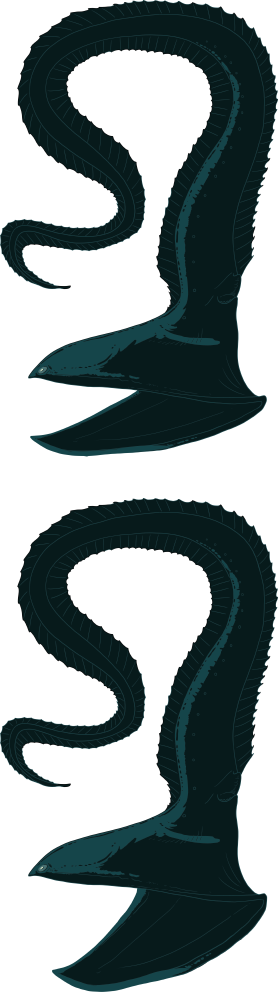
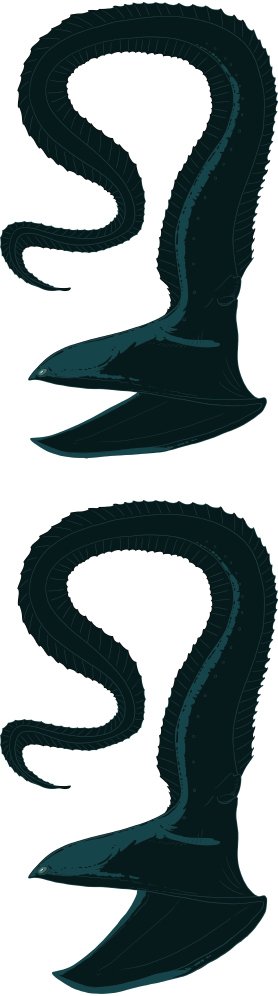
Fixing quirk of animation.

diff --git a/css/main.css b/css/main.css
@@ -300,12 +300,12 @@ cite:before {
 /* Challenges */
 /* Props */
 .creatures2x-sprite {
-  background-image: url('../img/creatures2x-s2908492c48.png');
+  background-image: url('../img/creatures2x-s9c2e841a7d.png');
   background-repeat: no-repeat;
 }
 
 .creatures-sprite, .creature_flashlight-fish:before, .creature_nautilus:before, .creature_orange-roughy:before, .creature_vomiting-shrimp:before, .creature_hagfish:before, #creature_viperfish1:before, #creature_gulper-eel1:before, #creature_dragonfish1:before, #creature_anglerfish1:before, #creature_bristlemouth1:before {
-  background-image: url('../img/creatures-sba66b1e045.png');
+  background-image: url('../img/creatures-s77c1a18647.png');
   background-repeat: no-repeat;
 }
 
@@ -318,7 +318,7 @@ cite:before {
 
 @media only screen and (-webkit-min-device-pixel-ratio: 1.3), only screen and (min--moz-device-pixel-ratio: 1.3), only screen and (-o-min-device-pixel-ratio: 2.6 / 2), only screen and (min-device-pixel-ratio: 1.3), only screen and (min-resolution: 124.8dpi), only screen and (min-resolution: 1.3dppx) {
   .creature:before {
-    background-image: url('../img/creatures2x-s2908492c48.png');
+    background-image: url('../img/creatures2x-s9c2e841a7d.png');
   }
 }
 /* Props */
@@ -344,16 +344,15 @@ cite:before {
 
 .creature_flashlight-fish {
   width: 181.5px;
-  height: 90.5px;
+  height: 94.5px;
 }
 .creature_flashlight-fish:before {
-  background-position: 0 24.72238%;
+  background-position: 0 24.81203%;
   background-size: 272.52747% auto;
-  height: 100%;
 }
 .creature_flashlight-fish .lumi {
   left: 83.19559%;
-  top: 64.0884%;
+  top: 61.37566%;
   width: 12.94766%;
 }
 
@@ -551,10 +550,10 @@ cite:before {
 
 .creature_nautilus {
   width: 219.5px;
-  height: 205px;
+  height: 209px;
 }
 .creature_nautilus:before {
-  background-position: 0 68.05421%;
+  background-position: 0 68.03828%;
   background-size: 225.45455% auto;
   height: 200%;
 }
@@ -589,10 +588,10 @@ cite:before {
 
 .creature_orange-roughy {
   width: 496px;
-  height: 271px;
+  height: 275px;
 }
 .creature_orange-roughy:before {
-  background-position: 0 85.1028%;
+  background-position: 0 85.01499%;
   background-size: 100% auto;
   height: 200%;
 }
@@ -622,7 +621,7 @@ cite:before {
 
 .creature_vomiting-shrimp {
   width: 166px;
-  height: 110px;
+  height: 114px;
 }
 .creature_vomiting-shrimp:before {
   background-position: 0 100%;
@@ -696,14 +695,14 @@ cite:before {
 
 .creature_hagfish {
   width: 200px;
-  height: 85px;
+  height: 89px;
   position: absolute;
   bottom: -20px;
   right: 2em;
   z-index: 1;
 }
 .creature_hagfish:before {
-  background-position: 0 57.89158%;
+  background-position: 0 57.86667%;
   background-size: 248% auto;
   height: 200%;
 }
@@ -765,9 +764,8 @@ cite:before {
   height: 214px;
 }
 #creature_viperfish1:before {
-  background-position: 0 93.14944%;
+  background-position: 0 93.10345%;
   background-size: 115.88785% auto;
-  height: 100%;
 }
 #creature_viperfish1 .lumi {
   left: 16.23832%;
@@ -777,16 +775,16 @@ cite:before {
 
 #creature_gulper-eel1 {
   width: 278px;
-  height: 494px;
+  height: 498px;
 }
 #creature_gulper-eel1:before {
-  background-position: 0 37.24712%;
+  background-position: 0 37.34846%;
   background-size: 178.41727% auto;
   height: 200%;
 }
 #creature_gulper-eel1 .lumi {
   left: 4.67626%;
-  top: 49.69636%;
+  top: 49.29719%;
   width: 20.68345%;
 }
 .in-view #creature_gulper-eel1:before {
@@ -795,16 +793,16 @@ cite:before {
 
 #creature_dragonfish1 {
   width: 478px;
-  height: 164px;
+  height: 168px;
 }
 #creature_dragonfish1:before {
-  background-position: 0 16.09557%;
+  background-position: 0 16.16413%;
   background-size: 103.76569% auto;
   height: 200%;
 }
 #creature_dragonfish1 .lumi {
   left: 8.3682%;
-  top: 5.18293%;
+  top: 5.05952%;
   width: 84.62343%;
 }
 .in-view #creature_dragonfish1:before {
@@ -813,7 +811,7 @@ cite:before {
 
 #creature_anglerfish1 {
   width: 208px;
-  height: 192px;
+  height: 196px;
 }
 #creature_anglerfish1:before {
   background-position: 0 0;
@@ -826,16 +824,16 @@ cite:before {
 
 #creature_bristlemouth1 {
   width: 278px;
-  height: 58px;
+  height: 62px;
 }
 #creature_bristlemouth1:before {
-  background-position: 0 11.49425%;
+  background-position: 0 11.49023%;
   background-size: 178.41727% auto;
   height: 200%;
 }
 #creature_bristlemouth1 .lumi {
   left: 2.15827%;
-  top: 43.10345%;
+  top: 40.32258%;
   width: 66.18705%;
 }
 .in-view #creature_bristlemouth1:before {

diff --git a/scss/_creature-shop.scss b/scss/_creature-shop.scss
@@ -37,7 +37,7 @@ $creatures-sprite-width: sprite_width($creatures-sprites);
     }
   }
   @if $animation {
-    $iHeight: image-height(sprite-file($creatures2x-sprites, #{$imgName}))/$keyframes - $creatures2x-spacing;
+    $iHeight: image-height(sprite-file($creatures2x-sprites, #{$imgName}))/$keyframes;
     height: $iHeight/2;
     @if $biolumi {
       .lumi {

diff --git a/scss/_disco.scss b/scss/_disco.scss
@@ -10,7 +10,7 @@
 }
 
 #creature_viperfish1 {
-    @include make-creature(viperfish, $lumiX: 139, $lumiY: 2, $lumiW: 612, $lumiH: 397, $animation: false, $biolumi: true);
+    @include make-creature(viperfish, $lumiX: 139, $lumiY: 2, $lumiW: 612, $lumiH: 397, $keyframes: 1, $animation: false, $biolumi: true);
 }
 
 #creature_gulper-eel1 {

diff --git a/scss/_hagfish.scss b/scss/_hagfish.scss
@@ -32,7 +32,7 @@
 }
 
 @keyframes wriggle {
-    50% { transform: translateY(-50%); }
+    50% { transform: translateY((-50%)); }
 }
 
 .ooze {
